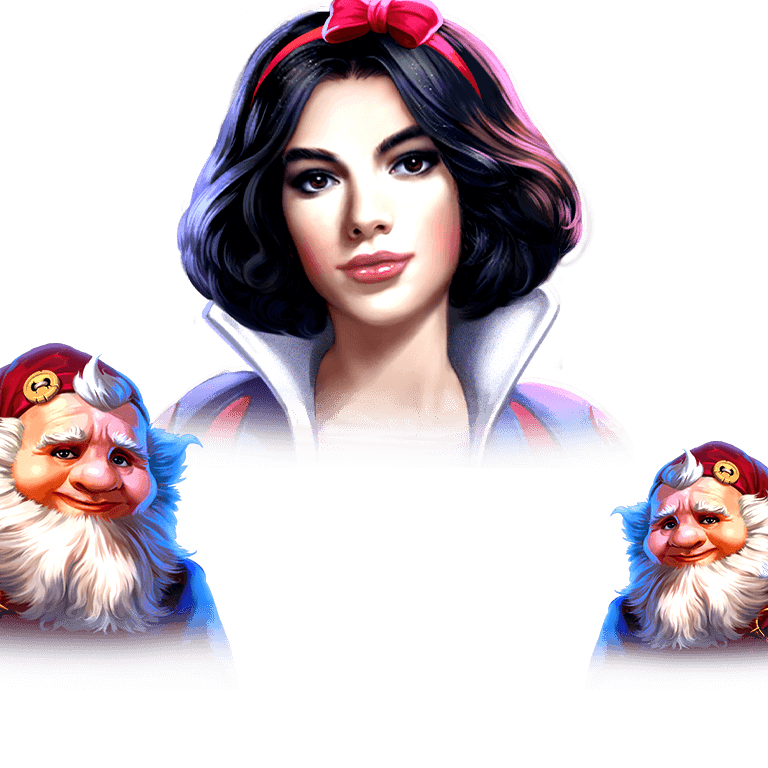
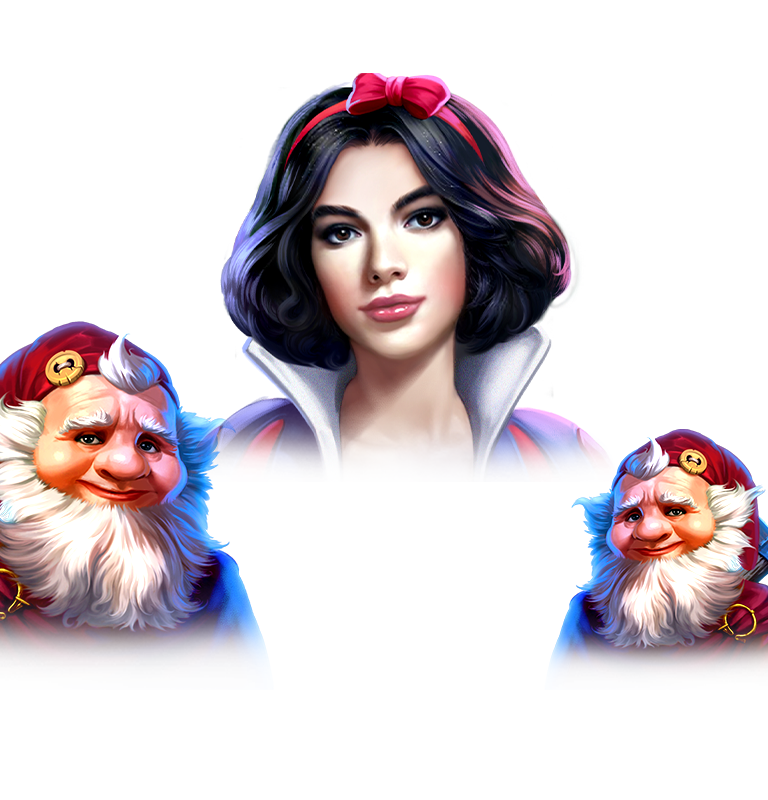
modified

diff --git a/css/style.sass b/css/style.sass
@@ -154,9 +154,15 @@ ul
                 top: 15%
                 animation-delay: -1s
             .cristal3
+                width: 400px
                 right: 6%
                 top: -2%
                 animation-delay: -8s
+            .cristal4
+                width: 220px
+                left: 42%
+                top: -2%
+                animation-delay: -3s
         .character
             position: absolute
             +size(100%,44vw)
@@ -814,13 +820,13 @@ ul
                     margin: 1rem 0
                     line-height: 1.8
     .header .header-container
-        padding: .4rem
+        padding: .3rem
         .logo
-            width: 80px
+            width: 65px
             padding: 0
     .language-pack
         .language-icon
-            padding: .4rem .5rem
+            padding: .2rem .5rem
             img
                 +size(20px)
             .language

diff --git a/css/style.css b/css/style.css
@@ -229,10 +229,19 @@ ul {
 }
 
 .site-main-wrapper .pc-mode .glow .cristal3 {
+  width: 400px;
   right: 6%;
   top: -2%;
   -webkit-animation-delay: -8s;
           animation-delay: -8s;
+}
+
+.site-main-wrapper .pc-mode .glow .cristal4 {
+  width: 220px;
+  left: 42%;
+  top: -2%;
+  -webkit-animation-delay: -3s;
+          animation-delay: -3s;
 }
 
 .site-main-wrapper .pc-mode .character {
@@ -1212,14 +1221,14 @@ ul {
     line-height: 1.8;
   }
   .header .header-container {
-    padding: .4rem;
+    padding: .3rem;
   }
   .header .header-container .logo {
-    width: 80px;
+    width: 65px;
     padding: 0;
   }
   .language-pack .language-icon {
-    padding: .4rem .5rem;
+    padding: .2rem .5rem;
   }
   .language-pack .language-icon img {
     width: 20px;

diff --git a/index.html b/index.html
@@ -59,14 +59,16 @@
                 <div class="cristal3">
                     <img src="images/events/cristal03.png" alt="">
                 </div>
+                <div class="cristal4">
+                    <img src="images/events/cristal02.png" alt="">
+                </div>
             </div>
             <div class="glow-mb"> </div>
             <div class="character"></div>
             <div class="treasure"></div>
             <div class="ribbon ribbonStart"></div>
+            <div class="banner-slogan-cn bnTitle"></div>
             <div class="connect-part"> </div>
-            <div class="banner-slogan-cn bnTitle">
-            </div>
         </div>
         <div class="main">
             <div class="prize-box">

diff --git a/css/animate.css b/css/animate.css
@@ -189,8 +189,8 @@
               transform: translateY(0);
     }
     100% {
-      -webkit-transform: translateY(-25px);
-              transform: translateY(-25px);
+      -webkit-transform: translateY(-20px);
+              transform: translateY(-20px);
       filter: brightness(130%);
     }
   }
@@ -364,15 +364,15 @@
 
 @keyframes brightness{
   0%{
-    filter: brightness(100%) grayscale(10%);
+    filter: brightness(100%) grayscale(0%);
   }
   50% {
     filter: brightness(150%) grayscale(90%);
-    transform: scale(1.01);
-    opacity: 0.2;
+    transform: scale(1.05);
+    opacity: 0.3;
   }
   100%{
-    filter: brightness(150%) grayscale(90%);
+    filter: brightness(130%) grayscale(90%);
   }
 
 }
